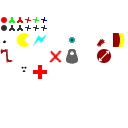
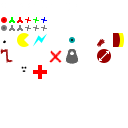
Add GUI background

Changed region(s): [[0.0, 0.1875, 0.375, 0.25]]

diff --git a/src/graph.cpp b/src/graph.cpp
@@ -119,12 +119,20 @@ struct CreatureData
     }
 };
 
+struct GuiBack
+{
+    GLshort pos, slot;
+    uint32_t color;
+
+    GuiBack(int pos, int slot, uint32_t color) : pos(pos), slot(slot), color(color)
+    {
+    }
+};
+
 struct GuiQuad
 {
     GLshort x, y;
     GLubyte tx, ty, width, height;
-
-    GuiQuad() = default;
 
     GuiQuad(GLshort x, GLshort y, GLubyte tx, GLubyte ty, GLubyte width, GLubyte height) :
         x(x), y(y), tx(tx), ty(ty), width(width), height(height)
@@ -215,15 +223,15 @@ void Representation::make_creature_shape()
 
 void Representation::make_quad_shape()
 {
-    elem_count[pass_gui] = 4;
-    obj_count[pass_gui] = 0;
+    elem_count[pass_back] = elem_count[pass_gui] = 4;
+    obj_count[pass_back] = obj_count[pass_gui] = 0;
 
     Vertex vertex[4] =
     {
         {0, 0}, {0, 1}, {1, 0}, {1, 1}
     };
 
-    glBindBuffer(GL_ARRAY_BUFFER, buf[vtx_gui]);
+    glBindBuffer(GL_ARRAY_BUFFER, buf[vtx_quad]);
     glBufferData(GL_ARRAY_BUFFER, sizeof(vertex), vertex, GL_STATIC_DRAW);
 }
 
@@ -241,6 +249,10 @@ Representation::Representation()
 
     create_program(pass_creature, Shader::creature);
     i_transform[pass_creature] = glGetUniformLocation(prog[pass_creature], "transform");
+
+    create_program(pass_back, Shader::back);
+    i_transform[pass_back] = glGetUniformLocation(prog[pass_back], "transform");
+    i_size = glGetUniformLocation(prog[pass_back], "size");
 
     create_program(pass_gui, Shader::gui);
     i_transform[pass_gui] = glGetUniformLocation(prog[pass_gui], "transform");
@@ -267,8 +279,15 @@ Representation::Representation()
     register_attribute(3, 4, GL_UNSIGNED_BYTE, GL_TRUE, sizeof(CreatureData), 5 * sizeof(GLfloat));
     glBindBuffer(GL_ELEMENT_ARRAY_BUFFER, buf[idx_creature]);
 
+    glBindVertexArray(arr[pass_back]);
+    glBindBuffer(GL_ARRAY_BUFFER, buf[vtx_quad]);
+    register_attribute(0, 2, GL_FLOAT, GL_FALSE, sizeof(Vertex), 0);
+    glBindBuffer(GL_ARRAY_BUFFER, buf[inst_back]);
+    register_attribute(1, 2, GL_SHORT, GL_FALSE, sizeof(GuiBack), 0);
+    register_attribute(2, GL_BGRA, GL_UNSIGNED_BYTE, GL_TRUE, sizeof(GuiBack), 2 * sizeof(GLshort));
+
     glBindVertexArray(arr[pass_gui]);
-    glBindBuffer(GL_ARRAY_BUFFER, buf[vtx_gui]);
+    glBindBuffer(GL_ARRAY_BUFFER, buf[vtx_quad]);
     register_attribute(0, 2, GL_FLOAT, GL_FALSE, sizeof(Vertex), 0);
     glBindBuffer(GL_ARRAY_BUFFER, buf[inst_gui]);
     register_attribute(1, 2, GL_SHORT, GL_FALSE, sizeof(GuiQuad), 0);
@@ -296,10 +315,14 @@ Representation::~Representation()
 
 namespace Gui
 {
+    constexpr uint32_t back_used   = 0xDD000000;
+    constexpr uint32_t back_unused = 0xDD330000;
+    constexpr uint32_t back_filler = 0xDD000000;
+
     constexpr unsigned digit_width  =  8;
     constexpr unsigned icon_width   = 16;
     constexpr unsigned line_height  = 16;
-    constexpr unsigned line_spacing = 24;
+    constexpr unsigned line_margin  =  4;
 
     constexpr unsigned flag_pos     = 16;
     constexpr unsigned flag_width   =  8;
@@ -307,7 +330,7 @@ namespace Gui
     constexpr unsigned flag_row     =  3;
     constexpr unsigned end_flag = 1 << 7;
 
-    constexpr unsigned panel_width = 5 * icon_width + 20 * digit_width;
+    constexpr unsigned panel_width = 5 * icon_width + 20 * digit_width + 2 * line_margin;
 
     constexpr unsigned icon_offset  = 16;
     constexpr unsigned icon_row     =  8;
@@ -341,26 +364,26 @@ namespace Gui
     };
 }
 
-int write_number(GuiQuad *&data, uint32_t num, int x, int y)
+int write_number(std::vector<GuiQuad> &buf, uint32_t num, int x, int y)
 {
     do
     {
         x -= Gui::digit_width;
         unsigned tx = (num % 10) * Gui::digit_width;  num /= 10;
-        *data++ = GuiQuad(x, y, tx, 0, Gui::digit_width, Gui::line_height);
+        buf.emplace_back(x, y, tx, 0, Gui::digit_width, Gui::line_height);
     }
     while(num);  return x;
 }
 
-void put_icon(GuiQuad *&data, int x, int y, unsigned index)
+void put_icon(std::vector<GuiQuad> &buf, int x, int y, unsigned index)
 {
     index += Gui::icon_offset;
     unsigned tx = (index % Gui::icon_row) * Gui::icon_width;
     unsigned ty = (index / Gui::icon_row) * Gui::line_height;
-    *data++ = GuiQuad(x, y, tx, ty, Gui::icon_width, Gui::line_height);
+    buf.emplace_back(x, y, tx, ty, Gui::icon_width, Gui::line_height);
 }
 
-void put_flags(GuiQuad *&data, int x, int y, unsigned flags, unsigned flag_count)
+void put_flags(std::vector<GuiQuad> &buf, int x, int y, unsigned flags, unsigned flag_count)
 {
     unsigned flag = Gui::end_flag >> flag_count;
     unsigned rows = (flag_count - 1) / Gui::flag_row + 1;
@@ -368,60 +391,73 @@ void put_flags(GuiQuad *&data, int x, int y, unsigned flags, unsigned flag_count
     for(unsigned i = 0; i < flag_count; i++)
     {
         unsigned ty = flags & (flag << i) ? Gui::flag_pos : Gui::flag_pos + Gui::flag_height;
-        *data++ = GuiQuad(x, y, i * Gui::flag_width, ty, Gui::flag_width, Gui::flag_height);
+        buf.emplace_back(x, y, i * Gui::flag_width, ty, Gui::flag_width, Gui::flag_height);
         x += Gui::flag_width;  if((i + 1) % Gui::flag_row)continue;
         x -= Gui::flag_row * Gui::flag_width;  y += Gui::flag_height;
     }
 }
 
-size_t Representation::Selection::make_creature(const World &world, bool skipUnused)
+void Representation::fill_sel_buf(const World &world, bool skipUnused)
 {
     constexpr unsigned num_width = 4 * Gui::digit_width;
     constexpr unsigned slot_offset = num_width + Gui::icon_width;
 
-    proc.process(world.config, cr->genome);
-    std::vector<GuiQuad> buf(22 * proc.slot_count);
-    GuiQuad *data = buf.data();
+    sel.proc.process(world.config, sel.cr->genome);
+    const auto &slots = sel.proc.slots;
+
+    std::vector<GuiBack> buf_back;
+    buf_back.reserve(slots.size() + 1);
+
+    std::vector<GuiQuad> buf_gui;
+    buf_gui.reserve(22 * slots.size());
 
     int y = 0;
-    for(uint32_t i = 0; i < proc.slot_count; i++)
+    for(size_t i = 0; i < slots.size(); i++)
     {
-        if(skipUnused && !proc.slots[i].used)continue;
+        if(skipUnused && !slots[i].used)continue;
 
-        int x = num_width;
-        write_number(data, i, x, y);
-        put_icon(data, x, y, proc.slots[i].type);
-        const Gui::TypeIcons &icons = Gui::icons[proc.slots[i].type];
+        buf_back.emplace_back(y, i, slots[i].used ? Gui::back_used : Gui::back_unused);
+        int x = Gui::line_margin + num_width;  y += Gui::line_margin;
+
+        write_number(buf_gui, i, x, y);
+        put_icon(buf_gui, x, y, slots[i].type);
+        const Gui::TypeIcons &icons = Gui::icons[slots[i].type];
         if(icons.base)
         {
-            write_number(data, proc.slots[i].base - 1, x += slot_offset, y);
-            put_icon(data, x, y, icons.base);
+            write_number(buf_gui, slots[i].base - 1, x += slot_offset, y);
+            put_icon(buf_gui, x, y, icons.base);
         }
         if(icons.angle1)
         {
-            write_number(data, proc.slots[i].angle1, x += slot_offset, y);
-            put_icon(data, x, y, icons.angle1);
+            write_number(buf_gui, slots[i].angle1, x += slot_offset, y);
+            put_icon(buf_gui, x, y, icons.angle1);
         }
         if(icons.angle2)
         {
-            write_number(data, proc.slots[i].angle2, x += slot_offset, y);
-            put_icon(data, x, y, icons.angle2);
+            write_number(buf_gui, slots[i].angle2, x += slot_offset, y);
+            put_icon(buf_gui, x, y, icons.angle2);
         }
         if(icons.radius)
         {
-            write_number(data, proc.slots[i].radius, x += slot_offset, y);
-            put_icon(data, x, y, icons.radius);
+            write_number(buf_gui, slots[i].radius, x += slot_offset, y);
+            put_icon(buf_gui, x, y, icons.radius);
         }
         if(icons.flag_count)
         {
             x += Gui::icon_width + Gui::flag_width;
-            put_flags(data, x, y, proc.slots[i].flags, icons.flag_count);
+            put_flags(buf_gui, x, y, slots[i].flags, icons.flag_count);
         }
-        y += Gui::line_spacing;
+        y += Gui::line_height + Gui::line_margin;
     }
+    buf_back.emplace_back(y, -2, Gui::back_filler);
 
-    glBufferData(GL_ARRAY_BUFFER, (data - buf.data()) * sizeof(GuiQuad), buf.data(), GL_STATIC_DRAW);
-    return data - buf.data();
+    glBindBuffer(GL_ARRAY_BUFFER, buf[inst_back]);
+    glBufferData(GL_ARRAY_BUFFER, buf_back.size() * sizeof(GuiQuad), buf_back.data(), GL_STATIC_DRAW);
+    obj_count[pass_back] = buf_back.size();
+
+    glBindBuffer(GL_ARRAY_BUFFER, buf[inst_gui]);
+    glBufferData(GL_ARRAY_BUFFER, buf_gui.size() * sizeof(GuiQuad), buf_gui.data(), GL_STATIC_DRAW);
+    obj_count[pass_gui] = buf_gui.size();
 }
 
 bool hit_test(const World::Tile &tile,
@@ -465,14 +501,21 @@ void Representation::select(const World &world, Camera &cam, int32_t x, int32_t 
     sel.cr = hit_test(world, x0, y0, rad, sel.id);
     if(!sel.cr)
     {
-        sel.id = uint64_t(-1);  obj_count[pass_gui] = 0;  return;
+        GuiBack filler(0, -2, Gui::back_filler);
+        glBindBuffer(GL_ARRAY_BUFFER, buf[inst_back]);
+        glBufferData(GL_ARRAY_BUFFER, sizeof(GuiQuad), &filler, GL_STATIC_DRAW);
+        obj_count[pass_back] = 1;
+
+        glBindBuffer(GL_ARRAY_BUFFER, buf[inst_gui]);
+        glBufferData(GL_ARRAY_BUFFER, 0, nullptr, GL_STATIC_DRAW);
+        obj_count[pass_gui] = 0;
+
+        sel.id = uint64_t(-1);  return;
     }
     if(sel.cr->id == sel.id)return;
 
-    sel.id = sel.cr->id;  sel.pos = sel.cr->pos;
-
-    glBindBuffer(GL_ARRAY_BUFFER, buf[inst_gui]);
-    obj_count[pass_gui] = sel.make_creature(world, true);
+    sel.id = sel.cr->id;  sel.pos = sel.cr->pos;  sel.slot = -1;
+    fill_sel_buf(world, true);
 }
 
 void Representation::update(SDL_Window *window, const World &world, Camera &cam, bool checksum)
@@ -556,7 +599,7 @@ void Representation::draw(const World &world, const Camera &cam)
     double dx = mul_x * std::exp2(order_x), x0 = x * mul_x + 1;
     double dy = mul_y * std::exp2(order_y), y0 = y * mul_y + 1;
 
-    for(int pass = 0; pass < pass_gui; pass++)
+    for(int pass = 0; pass < pass_back; pass++)
     {
         glBindVertexArray(arr[pass]);  glUseProgram(prog[pass]);
         for(int i = 0; i <= ny; i++)for(int j = 0; j <= nx; j++)
@@ -568,8 +611,13 @@ void Representation::draw(const World &world, const Camera &cam)
 
     glEnable(GL_BLEND);
     glBlendFunc(GL_SRC_ALPHA, GL_ONE_MINUS_SRC_ALPHA);
-
     mul_x = 2.0 / cam.width;  mul_y = 2.0 / cam.height;
+
+    glBindVertexArray(arr[pass_back]);  glUseProgram(prog[pass_back]);
+    glUniform4f(i_transform[pass_back], 1 - Gui::panel_width * mul_x, 1, mul_x, -mul_y);
+    glUniform3f(i_size, Gui::panel_width, Gui::line_height + 2 * Gui::line_margin, sel.slot);
+    glDrawArraysInstanced(GL_TRIANGLE_STRIP, 0, elem_count[pass_back], obj_count[pass_back]);
+
     glBindVertexArray(arr[pass_gui]);  glUseProgram(prog[pass_gui]);
     glUniform4f(i_transform[pass_gui], 1 - Gui::panel_width * mul_x, 1, mul_x, -mul_y);
     glUniform1i(i_gui, 0);  glActiveTexture(GL_TEXTURE0);  glBindTexture(GL_TEXTURE_2D, tex_gui);

diff --git a/src/world.cpp b/src/world.cpp
@@ -503,7 +503,7 @@ void GenomeProcessor::State::process_gene(const Config &config, Genome::Gene &ge
 
 void GenomeProcessor::update(const Config &config, const Genome &genome)
 {
-    slot_count = uint32_t(1) << config.slot_bits;  working_links = 0;
+    uint32_t slot_count = uint32_t(1) << config.slot_bits;
     slots.resize(slot_count);  links.clear();
 
     std::vector<Genome::Gene> genes = genome.genes;
@@ -542,9 +542,9 @@ struct Reference
 
 void GenomeProcessor::finalize()
 {
-    std::vector<uint32_t> queue;  queue.reserve(slot_count);
+    std::vector<uint32_t> queue;  queue.reserve(slots.size());
     std::vector<Reference> refs;  refs.reserve(links.size() + 1);
-    for(uint32_t i = 0; i < slot_count; i++)
+    for(size_t i = 0; i < slots.size(); i++)
     {
         if(slots[i].neiro_state)
         {
@@ -563,12 +563,12 @@ void GenomeProcessor::finalize()
         while(pos < end)refs.emplace_back(i, links[pos++]);
     }
     std::sort(refs.begin(), refs.end());
-    refs.emplace_back(slot_count);
+    refs.emplace_back(slots.size());
 
     std::vector<uint32_t> ref_pos;
-    ref_pos.reserve(slot_count + 1);
+    ref_pos.reserve(slots.size() + 1);
     ref_pos.push_back(0);  uint32_t pos = 0;
-    for(uint32_t i = 0; i < slot_count; i++)
+    for(size_t i = 0; i < slots.size(); i++)
     {
         while(refs[pos].source == i)pos++;
         ref_pos.push_back(pos);
@@ -602,7 +602,7 @@ void GenomeProcessor::finalize()
         }
     }
 
-    for(uint32_t i = 0; i < slot_count; i++)if(slots[i].used)
+    for(size_t i = 0; i < slots.size(); i++)if(slots[i].used)
     {
         if(!slots[i].neiro_state)queue.push_back(i);
         else if(slots[i].neiro_state == s_always_off)slots[i].used = false;
@@ -770,8 +770,8 @@ Creature::Creature(const Config &config, Genome &genome, GenomeProcessor &proc,
     radars.reserve(update_counters(proc.count, offset, n, Slot::radar));
     std::vector<slot_t> slots(n);  input.resize(n, 0);
 
-    std::vector<uint32_t> mapping(proc.slot_count, -1);
-    for(uint32_t i = 0; i < proc.slot_count; i++)
+    std::vector<uint32_t> mapping(proc.slots.size(), -1);
+    for(size_t i = 0; i < proc.slots.size(); i++)
     {
         const auto &slot = proc.slots[i];  if(!slot.used)continue;
 

diff --git a/src/graph.h b/src/graph.h
@@ -45,14 +45,14 @@ class Representation
 {
     enum Pass
     {
-        pass_food, pass_creature, pass_gui, pass_count
+        pass_food, pass_creature, pass_back, pass_gui, pass_count
     };
 
     enum BufferType
     {
         vtx_food, inst_food, idx_food,
         vtx_creature, inst_creature, idx_creature,
-        vtx_gui, inst_gui,
+        vtx_quad, inst_back, inst_gui,
         buf_count
     };
 
@@ -62,18 +62,16 @@ class Representation
         const Creature *cr;
         GenomeProcessor proc;
         std::vector<uint32_t> mapping;
-        Position pos;
+        Position pos;  int slot;
 
         Selection() : id(-1), cr(nullptr)
         {
         }
-
-        size_t make_creature(const World &world, bool skipUnused);
     };
 
 
     GLuint prog[pass_count], tex_gui;
-    GLint i_transform[pass_count], i_gui;
+    GLint i_transform[pass_count], i_size, i_gui;
     GLuint arr[pass_count], buf[buf_count];
     size_t elem_count[pass_count];
     size_t obj_count[pass_count];
@@ -81,6 +79,7 @@ class Representation
 
 
     void create_program(Pass pass, Shader::Index id);
+    void fill_sel_buf(const World &world, bool skipUnused);
 
     void make_food_shape();
     void make_creature_shape();

diff --git a/src/world.h b/src/world.h
@@ -231,7 +231,7 @@ private:
 
 
 public:
-    uint32_t slot_count, working_links;
+    uint32_t working_links;
     std::vector<SlotData> slots;
     std::vector<LinkData> links;
     Config::SlotCost passive_cost;
